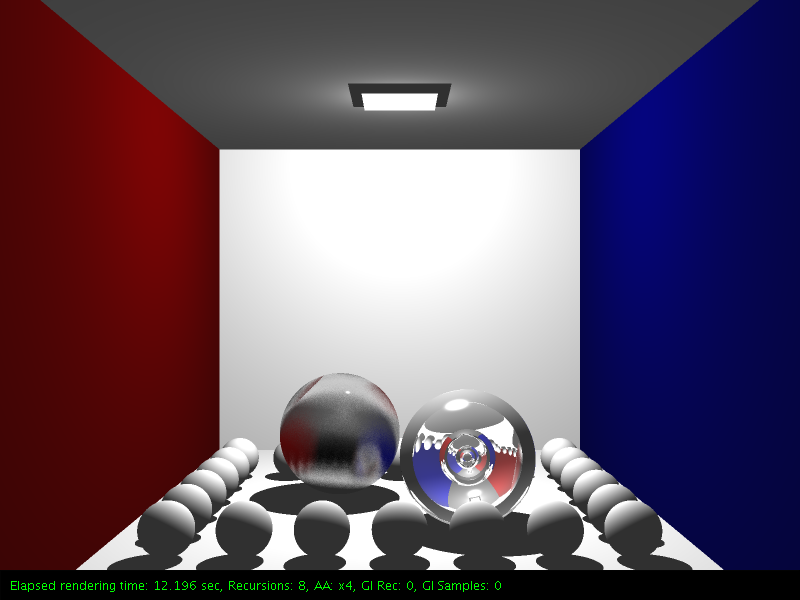
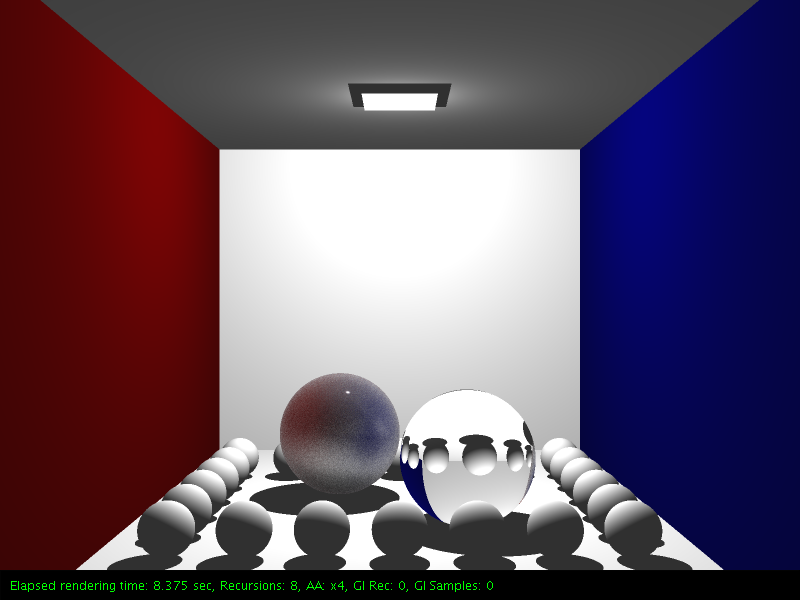
Blurry reflections: Introducing gaussian random range

Changed region(s): [[0.3438, 0.6, 0.6875, 0.87], [0.1875, 0.96, 0.625, 0.99]]

diff --git a/VCG_Raytracer/src/raytracer/Intersection.java b/VCG_Raytracer/src/raytracer/Intersection.java
@@ -39,7 +39,27 @@ public class Intersection {
 
     }
 
-    private static Vec3 calculateRandomDirection(){
+    private static Vec3 calculateRandomValues(){
+        Random rand1 = new Random();
+
+        float randNr1 = rand1.nextInt(100) / 100f;
+        float randNr2 = rand1.nextInt(100) / 100f;
+        float cosTheta = rand1.nextInt(100) / 100f;
+
+        return new Vec3(randNr1, cosTheta, randNr2);
+    }
+
+    private static Vec3 calculateGaussianValues(){
+        Random rand1 = new Random();
+
+        float randNr1 = (float) (rand1.nextGaussian()/2f);
+        float randNr2 = (float) (rand1.nextGaussian()/2f);
+        float cosTheta = (float) Math.abs(rand1.nextGaussian());
+
+        return new Vec3(randNr1, cosTheta, randNr2);
+    }
+
+    private static Vec3 calculateRandomDirection(boolean useGaussian){
         // --- new idea ---
         // random x value between 0-200 => -100-100
         // random z value between 0-200 => -100-100
@@ -47,8 +67,6 @@ public class Intersection {
         // normalise vector
         // calculate transformation T between (0,1,0) and our new vector
         // multiply our normal with transformation T
-
-        Random rand1 = new Random();
 
         // This way is a lot faster
 //        float randX = (rand1.nextInt(2000) - 1000) / 2000f;
@@ -58,29 +76,34 @@ public class Intersection {
 //        return new Vec3(randX, randY, randZ).normalize();
 
         // NEW IDEA
+        Vec3 randomValues;
 
-        double randNr1 = rand1.nextInt(100) / 100f;
-        double randNr2 = rand1.nextInt(100) / 100f;
+        if(useGaussian){
+            randomValues = calculateGaussianValues();
+        }
+        else{
+            randomValues = calculateRandomValues();
+        }
 
-        float mCosTheta = rand1.nextInt(100) / 100f;
+        return randomValues;
 
-        double sinTheta = Math.sqrt(1 - randNr1 * randNr1);
-
-        double phi = 2 * Math.PI/20f * randNr2;
-
-        float x = (float) (sinTheta * Math.cos(phi));
-
-        float z = (float) (sinTheta * Math.sin(phi));
-
-        return new Vec3(x, mCosTheta, z);
+//        double sinTheta = Math.sqrt(1 - randomValues.x * randomValues.x);
+//
+//        double phi = 2 * Math.PI * randomValues.z;
+//
+//        float x = (float) (sinTheta * Math.cos(phi));
+//
+//        float z = (float) (sinTheta * Math.sin(phi));
+//
+//        return new Vec3(x, randomValues.y, z);
     }
 
-    public Vec3 calculateTransformedRandomEndDirection(Vec3 vecA, Vec3 vecB, Vec3 vecC){
+    public Vec3 calculateTransformedRandomEndDirection(Vec3 vecA, Vec3 vecB, Vec3 vecC, boolean useGaussian){
         // calculate random value between 0-90
         // calculate random -1 or 1
         // calculate random rotation between 0-180
 
-        Vec3 randomEndDirection = calculateRandomDirection();
+        Vec3 randomEndDirection = calculateRandomDirection(useGaussian);
 
         Vec3 transformedRandomEndDirection = new Vec3(
                 randomEndDirection.x * vecB.x + randomEndDirection.y * vecA.x + randomEndDirection.z * vecC.x,
@@ -94,7 +117,7 @@ public class Intersection {
 
     public Ray calculateRandomRay(){
 
-        Vec3 transformedRandomEndDirection = calculateTransformedRandomEndDirection(mNormal, mNormalB, mNormalT);
+        Vec3 transformedRandomEndDirection = calculateTransformedRandomEndDirection(mNormal, mNormalB, mNormalT, false);
 
         return new Ray(this.getIntersectionPoint(), transformedRandomEndDirection, Float.MAX_VALUE);
     }
@@ -121,25 +144,6 @@ public class Intersection {
         mNormalB = coordSys.vecC;
     }
 
-//    private Matrix4x4 calculateRandomTransformationMatrix(){
-//        Matrix4x4 transfMatrix = new Matrix4x4(); // we will multiply the normal with it
-//
-//        if(mNormalT == null) this.calculateCoordinateSystem();
-//
-//        transfMatrix.setValueAt(0,0, mNormalT.x);
-//        transfMatrix.setValueAt(0,1, mNormalT.y);
-//        transfMatrix.setValueAt(0,2, mNormalT.z);
-//
-//        transfMatrix.setValueAt(1,0, mNormal.x);
-//        transfMatrix.setValueAt(1,1, mNormal.y);
-//        transfMatrix.setValueAt(1,2, mNormal.z);
-//
-//        transfMatrix.setValueAt(2,0, mNormalB.x);
-//        transfMatrix.setValueAt(2,1, mNormalB.y);
-//        transfMatrix.setValueAt(2,2, mNormalB.z);
-//
-//        return transfMatrix;
-//    }
 
     public Ray calculateReflectionRay(boolean useBlurryRef) {
         // like in Phong, but take vector opposite to incoming direction
@@ -151,7 +155,7 @@ public class Intersection {
             Vec3 directNB = coordSys.vecB;
             Vec3 directNC = coordSys.vecC;
 
-            directN = calculateTransformedRandomEndDirection(directN, directNB, directNC);
+            directN = calculateTransformedRandomEndDirection(directN, directNB, directNC, true);
         }
 
         return calculateReflectionRay(directN );

diff --git a/VCG_Raytracer/src/Main.java b/VCG_Raytracer/src/Main.java
@@ -178,7 +178,7 @@ public class Main {
         // Materials: AmbientMaterial Color, Diffuse Coeeff, Specular Coeff, Shininess, Material
         Material sphereMaterial1 = new PhongMaterial(RgbColor.DARK_GRAY, RgbColor.DARK_GRAY, RgbColor.WHITE, PhongMaterial.VERY_SHINY, Material.MOST_REFLECTION, Material.NO_TRANSMISSION, 1);
         Material sphereMaterial2 = new PhongMaterial(RgbColor.BLACK, RgbColor.DARK_GRAY, RgbColor.WHITE, PhongMaterial.SHINY, Material.NO_REFLECTION, Material.DIAMOND, 1);
-        Material sphereMaterial3 = new PhongMaterial(RgbColor.GRAY, RgbColor.DARK_GRAY, RgbColor.WHITE, PhongMaterial.VERY_SHINY, Material.NO_REFLECTION, Material.AIR, 1);
+        //Material sphereMaterial3 = new PhongMaterial(RgbColor.GRAY, RgbColor.DARK_GRAY, RgbColor.WHITE, PhongMaterial.VERY_SHINY, Material.NO_REFLECTION, Material.AIR, 1);
 
         Material boringMaterial1 = new PhongMaterial(RgbColor.DARK_GRAY, RgbColor.GRAY, RgbColor.WHITE, PhongMaterial.SHINY, Material.MOST_REFLECTION, Material.NO_TRANSMISSION, 1);
         Material boringMaterial2 = new PhongMaterial(RgbColor.DARK_GRAY, RgbColor.GRAY, RgbColor.WHITE, PhongMaterial.SHINY, Material.MOST_REFLECTION, Material.NO_TRANSMISSION, 1);
@@ -187,7 +187,7 @@ public class Main {
 
         renderScene.createSphere(new Vec3(-BOX_DIMENSION /4f, -BOX_DIMENSION/1.2f + 1.1f, -BOX_DIMENSION /3f+4), sphereMaterial1, sphereRadius);
         renderScene.createSphere(new Vec3(BOX_DIMENSION/4f, -BOX_DIMENSION/1.2f + sphereRadius, BOX_DIMENSION /3f+3), sphereMaterial2, sphereRadius);
-        renderScene.createSphere(new Vec3(BOX_DIMENSION/4f, -BOX_DIMENSION/1.2f + sphereRadius, BOX_DIMENSION /3f+3), sphereMaterial3, smallSphereRadius2);
+        //renderScene.createSphere(new Vec3(BOX_DIMENSION/4f, -BOX_DIMENSION/1.2f + sphereRadius, BOX_DIMENSION /3f+3), sphereMaterial3, smallSphereRadius2);
 
         renderScene.createSphere(new Vec3(-BOX_DIMENSION+1f, -BOX_DIMENSION + smallSphereRadius*1.75f, 6), lambert1, smallSphereRadius);
         renderScene.createSphere(new Vec3(-BOX_DIMENSION+2f, -BOX_DIMENSION + smallSphereRadius*1.75f, 6), lambert1, smallSphereRadius);
